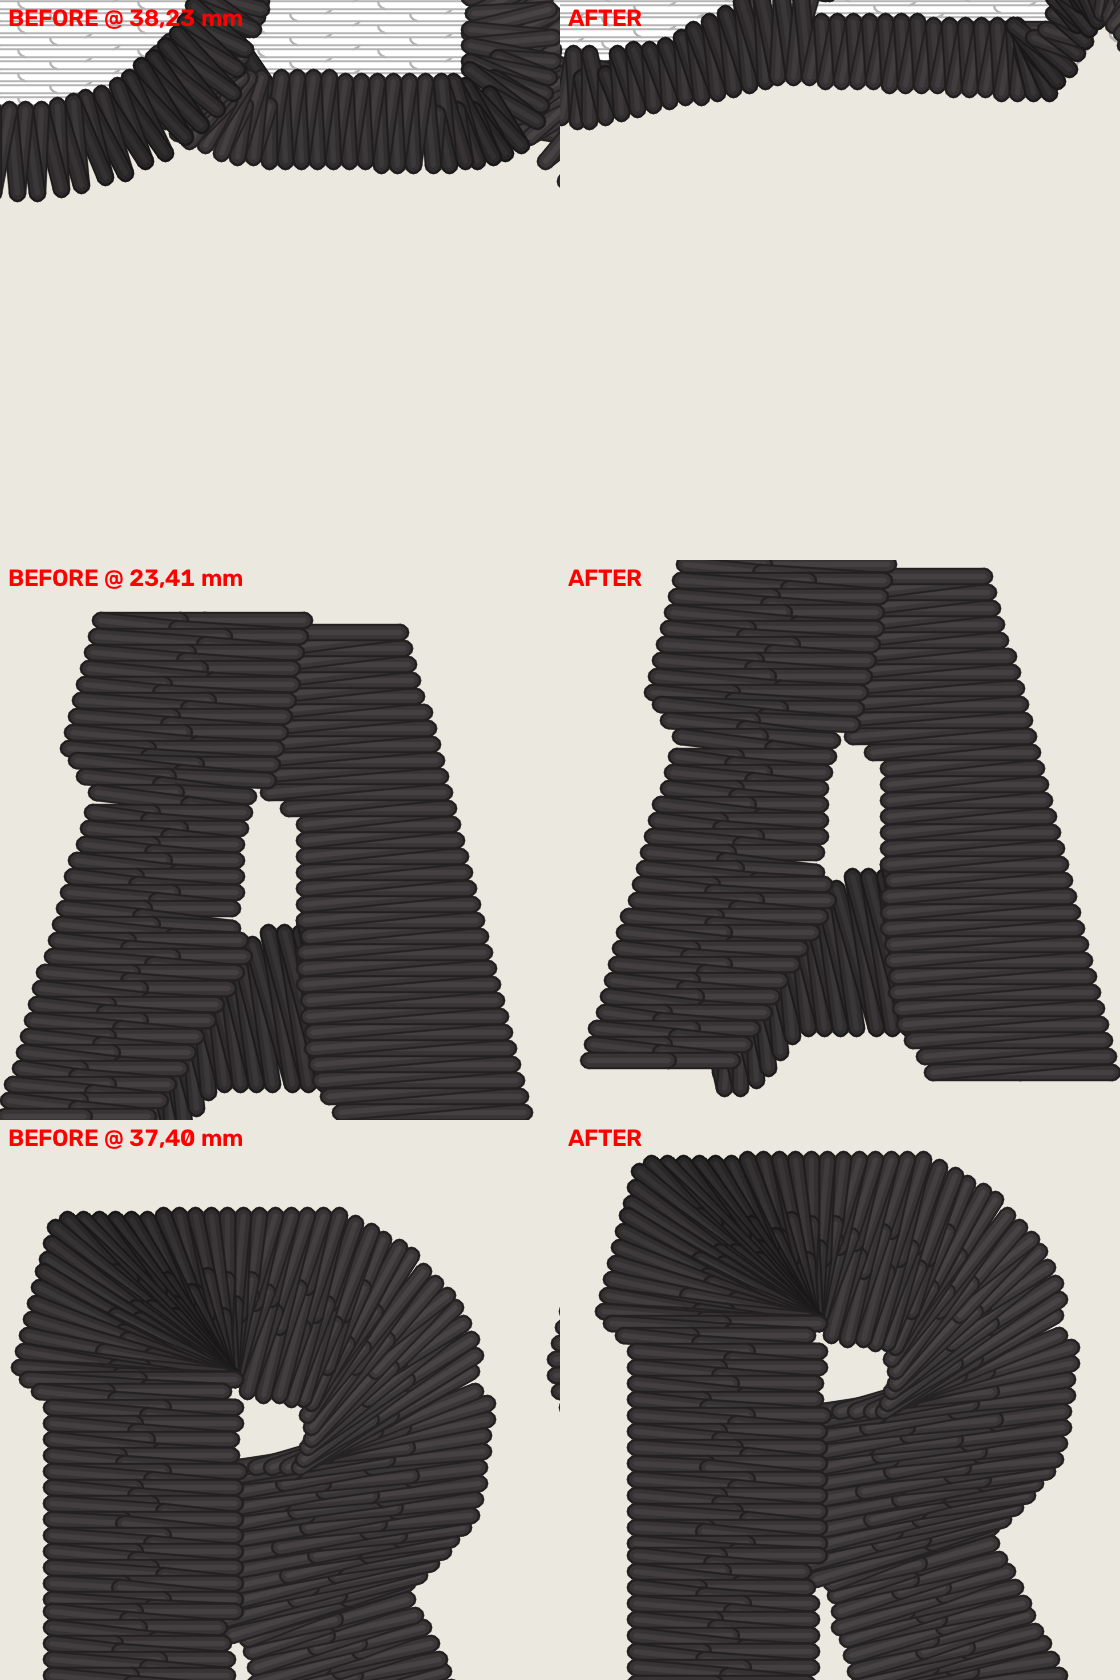
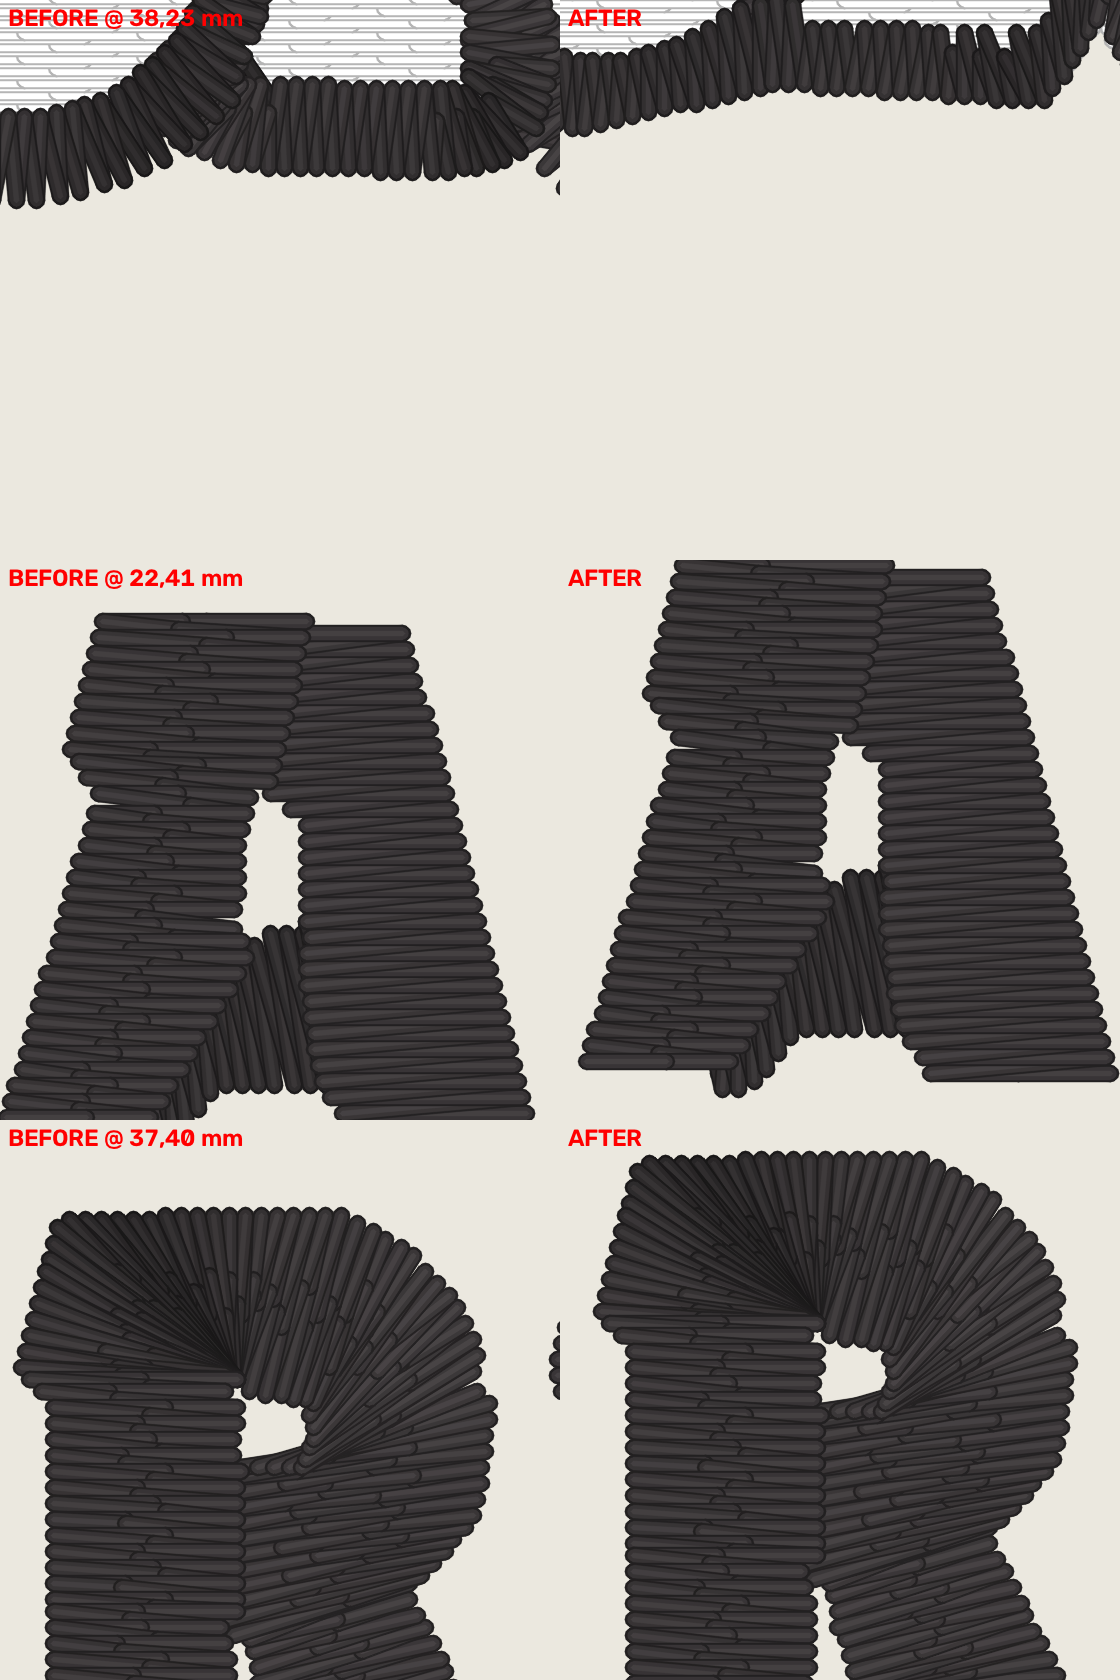
outline_one_band round 2 (OFF): no thread across a face, V crosses square; whole word not clearly better, MFab 30 mm guard named (#1665)
* outline_one_band round 2: no thread across a face, stems edge to edge, V crosses kept square; 44-run sweep; MFab 30 mm guard named

Claude-Session: https://claude.ai/code/session_01SfRndNWG1h2hnYMnZLY5DV

* outline_one_band: the flag's comment says plainly it is not a flip candidate as built (director 2026-11-18)

Claude-Session: https://claude.ai/code/session_01SfRndNWG1h2hnYMnZLY5DV

* outline_one_band: the flag's comment names the one untried structural option

Claude-Session: https://claude.ai/code/session_01SfRndNWG1h2hnYMnZLY5DV

---------

diff --git a/digitizer/digitizer_core/outline_band.py b/digitizer/digitizer_core/outline_band.py
@@ -123,7 +123,7 @@ def stem_pieces(art: Polygon, rings: list[tuple[Polygon, float]]) -> tuple[list[
                 shared.append(g)
     if not shared:
         return [], outer, w
-    s = unary_union(shared).intersection(art).difference(outer)
+    s = unary_union(shared).buffer(0.3).intersection(art).difference(outer)
     # the opening drops the slivers where two hole buffers just touch
     s = s.buffer(-0.05).buffer(0.05)
     stems = []
@@ -176,6 +176,29 @@ def _keep_out_of_faces(runs: list, faces, outer_line: LineString) -> int:
             n += 1
         r.points = pts
     return n
+
+
+def _scrub_face_travel(runs: list, faces, trim_at_mm: float) -> tuple[list, int]:
+    """No thread crosses a white face: a travel run that runs through a face for more than a
+    third of a millimetre is not sewn, the needle lifts instead (cut past `trim_at_mm`)."""
+    out, lifts, last, pending = [], 0, None, False
+    for r in runs:
+        if not r.points:
+            out.append(r)
+            continue
+        if r.kind == stitches.TRAVEL and len(r.points) > 1 and LineString(r.points).intersection(faces).length > 0.33:
+            pending = True
+            continue
+        if pending and r.kind != stitches.TRAVEL and last is not None:
+            d = math.dist(last, r.points[0])
+            if d >= machine.TINY_STITCH_MM:
+                r.jump = True
+                r.trim = d > trim_at_mm
+                lifts += 1
+            pending = False
+        out.append(r)
+        last = r.points[-1]
+    return out, lifts
 
 
 def _outer_centre(art: Polygon, w: float) -> LineString | None:
@@ -233,6 +256,12 @@ def _centre_walk(band: Polygon, centre: LineString | None, a, b):
         out.extend(_densify(cur, pt, machine.TRAVEL_STITCH_MM))
         cur = pt
     return out
+
+
+#: the outer loop's cross direction is read over this many times the usual stretch of its ring, so
+#: through a notch (the V between two letters) the crosses keep the band's own direction instead of
+#: turning with each facet (the pro's stay 79-93 deg across the V)
+TANGENT_SCALE = 3.0
 
 
 def _hop(runs: list, new: list, cursor, band: Polygon, shape_id: str, trim_at_mm: float,
@@ -377,7 +406,7 @@ def one_band_runs(art: Polygon, rings: list[tuple[Polygon, float]], shape_id: st
     seed = _loops_exit(rings, entry) or cursor
     o_runs, o_rep = keyline_runs(art, shape_id, reach=art.difference(stem_union), entry=seed,
                                  trim_at_mm=trim_at_mm, underlay=underlay,
-                                 holes=[(ext, w)], bridge_guides=guides)
+                                 holes=[(ext, w)], bridge_guides=guides, tangent_scale=TANGENT_SCALE)
     if o_rep["empty"]:
         return [], report
     _keep_out_of_faces(o_runs, unary_union([h for h, _w in rings]).buffer(-0.0005),
@@ -387,5 +416,7 @@ def one_band_runs(art: Polygon, rings: list[tuple[Polygon, float]], shape_id: st
     runs += o_runs
     report["jumps"] += o_rep["jumps"]
     report["outline_loops"] += o_rep["loops"]
+    runs, lifts = _scrub_face_travel(runs, unary_union([h for h, _w in rings]).buffer(-0.1), trim_at_mm)
+    report["jumps"] += lifts
     report["empty"] = False
     return runs, report

diff --git a/digitizer/digitizer_core/config.py b/digitizer/digitizer_core/config.py
@@ -3624,15 +3624,24 @@ class PipelineConfig:
     # (`docs/renders/outline-loop-split-shared-2026-11-18/`). Off,
     # byte-identical. Tests: `tests/test_outline_loop_split_shared.py`.
     outline_loop_split_shared: bool = False
-    # `outline_one_band` (2026-11-18, prime grader / Kent 11-10 "the border
-    # around this logo should be smooth"): an outline whose band is shared by
-    # two or more bodies and has stems between them (BECKER) is sewn the way
-    # the professional's Becker file is -- each stem a satin column of its own
-    # first, then ONE loop on the band's outer ring last, so the border passes
-    # the dip between two letters as one band (`outline_band`). Single-body
-    # bands and bands without a stem are untouched. Built OFF: the flip is
-    # Kent's, judged on the before / after pictures
-    # (`docs/renders/outline-one-band-2026-11-18/`). Off, byte-identical.
+    # `outline_one_band` (2026-11-18, prime grader / Kent 11-10 "the border around this logo
+    # should be smooth"): an outline whose band is shared by two or more bodies and has stems
+    # between them (BECKER) is sewn the way the professional's Becker file is -- each stem a
+    # satin column of its own first, then ONE loop on the band's outer ring last (`outline_band`).
+    # **NOT A FLIP CANDIDATE AS BUILT** (director 2026-11-18, after the all-placements sweep of
+    # the 18 tripwire jobs + 26 fixtures): 6 of 44 move. The three small Becker placements get
+    # worse (a bare sliver across the K, +6 to +8 trims), Becker large gains +183 mm of needle-up
+    # (round 1; +217 mm round 2), becker_lc_large +361 mm, and `mfab_lc` MOVED in round 1
+    # (+897 stitches, +4 trims) although the gate was meant to exclude MFab, so the gate itself
+    # (two or more bodies and a stem) is wrong there; MFab hat at 30 mm drops a grade B -> C with
+    # it ON (`test_underfill_small_size`). What is worth keeping is the MEASURED CONSTRUCTION: one
+    # fill under the group, one border band over the V, a column per stem, stem first
+    # (`docs/outline-one-band-2026-11-18.md`). The one UNTRIED structural option: sew each face's loop
+    # whole, as OFF does, and lay the stems and the outer loop OVER it instead of cutting it (it
+    # brings the double cover at the stems back; not built). Off, byte-identical on all 35 pro/fixture
+    # runs.
+    # Tests: `tests/test_outline_one_band.py`. Evidence:
+    # `docs/renders/outline-one-band-2026-11-18/README.md`.
     outline_one_band: bool = False
     # `satin_hairline_tier` (2026-10-08, MASTER_SCOPE defect 24 -- the tier
     # the 2026-09-03 mechanism left open). A stroke that loses crosses to

diff --git a/digitizer/digitizer_core/stage6_border.py b/digitizer/digitizer_core/stage6_border.py
@@ -1270,7 +1270,8 @@ def keyline_runs(band, shape_id: str, *, reach, entry: tuple[float, float] | Non
                  trim_at_mm: float, width_mm: float | None = None,
                  density_mm: float | None = None,
                  underlay: bool = False, holes=None,
-                 split_shared: bool = False, bridge_guides=None) -> tuple[list[StitchRun], dict]:
+                 split_shared: bool = False, bridge_guides=None,
+                 bridge_ok=None, tangent_scale: float = 1.0) -> tuple[list[StitchRun], dict]:
     """A keyline band as one satin loop round each of its holes. -> (runs,
     report).
 
@@ -1340,7 +1341,7 @@ def keyline_runs(band, shape_id: str, *, reach, entry: tuple[float, float] | Non
             ring_pts, total = _ring_arc_samples(coords, n)
         if not ring_pts:
             continue
-        k_tan = max(1, int(round(half / step)))
+        k_tan = max(1, int(round(half / step * tangent_scale)))
         start_at = cursor
         if chain and rings:
             # `cfg.keyline_loop_chain` (built OFF): the loop starts where it
@@ -1379,6 +1380,8 @@ def keyline_runs(band, shape_id: str, *, reach, entry: tuple[float, float] | Non
         elif cursor is not None:
             to = walk[0] if walk else pts[0]
             bridge = travel_path(band, bridge_guides, cursor, to)
+            if bridge is not None and bridge_ok is not None and not bridge_ok(bridge):
+                bridge = None
             if bridge is None:
                 d = math.dist(cursor, to)
                 if d >= machine.TINY_STITCH_MM:

diff --git a/docs/renders/outline-one-band-2026-11-18/README.md b/docs/renders/outline-one-band-2026-11-18/README.md
@@ -48,52 +48,57 @@ E/R join is the same. **Worse:**
 * At the V the outer loop's crosses still turn with the band's normal (they bunch in the
   notch); the pro's stay near-square to the band. Closer than before, not the pro's.
 
-## ALL 18 tripwire jobs (every placement) + the 26 fixtures, OFF vs ON (director 11-18, final build)
+## ALL 18 tripwire jobs (every placement) + the 26 fixtures, OFF vs ON (round 2, 2026-11-18)
 
-44 runs by stitch md5: **6 moved, 38 byte-identical.** The 35-run table above missed four
-(second placements of the same artwork). Needle-up = the straight gap the needle flies at each
-lift (`pro_baseline.needle_up`'s rule, from the design's stitch list).
+44 runs by stitch md5: **6 moved, 38 byte-identical** (OFF = `origin/main`'s output; round 2 changes the ON arm only).
+Needle-up = the straight gap the needle flies at each lift (`pro_baseline.needle_up`'s rule, from the stitch list).
 
 | run | stitches | trims | jumps | needle-up mm |
 |---|---|---|---|---|
-| becker_hat_large | 16,246 -> 16,246 | 19 -> 20 | 20 -> 21 | 489.6 -> **672.5** |
-| becker_hat_small | 10,319 -> 9,851 | 10 -> **18** | 14 -> 23 | 306.3 -> 319.0 |
-| becker_chest_small | 10,156 -> 9,698 | 9 -> **16** | 13 -> 21 | 303.5 -> 292.5 |
-| becker_beanie | 13,653 -> 13,330 | 13 -> **19** | 15 -> 21 | 385.0 -> 375.0 |
-| mfab_lc | 17,570 -> **18,467** | 19 -> 23 | 29 -> 33 | 504.9 -> 586.6 |
-| fx_becker_marine_logo (80 mm) | 10,826 -> 10,459 | 13 -> 19 | 14 -> 20 | 380.4 -> 362.9 |
+| becker_hat_large | 16,246 -> 16,154 | 19 -> 23 | 20 -> 24 | 489.6 -> 706.8 |
+| becker_lc_large | 14,802 -> 14,432 | 13 -> 24 | 14 -> 25 | 213.8 -> **574.8** |
+| becker_hat_small | 10,319 -> 9,766 | 10 -> 21 | 14 -> 25 | 306.3 -> 357.9 |
+| becker_chest_small | 10,156 -> 9,627 | 9 -> 18 | 13 -> 22 | 303.5 -> 291.4 |
+| becker_beanie | 13,653 -> 13,121 | 13 -> 22 | 15 -> 24 | 385.0 -> 391.4 |
+| fx_becker_marine_logo (80 mm) | 10,826 -> 10,282 | 13 -> 21 | 14 -> 22 | 380.4 -> 364.9 |
 
-(becker_lc_large and the other 38 do not move.) All six pictured: `<run>.png`, `<run>_closeup.png`.
+mfab_lc, which moved in round 1, does not move now (its stem test no longer passes at that placement). Pictures:
+`<run>.png`, `<run>_closeup.png` for the six.
 
-**By eye, worse first:**
-* **becker_hat_small**: ON draws a white (bare) curved sliver across the top of the K where the
-  stem top meets the band (overview, AFTER, K top), and the band edge is rougher; trims 10 -> 18.
-* becker_chest_small, becker_beanie: same family as the small hat (trims +7 / +6).
-* becker_hat_large: needle-up travel +183 mm (more lifts between far pieces), trims +1.
-* **mfab_lc**: +897 stitches (+5%), +4 trims, +82 mm needle-up; no visible change at print size
-  (the white keyline reads the same). The gate was met by the LC placement's letters and stems.
-* The 102 mm and 80 mm Becker pictures above stand: one stem column, one continuous band.
+### What round 2 changed (director's list, 11-18 06:33)
+1. **Stray line.** The diagonal line near the K/E/R lower area was a TRAVEL run of 25 mm that ran through the
+   E's white face (the walk along the band's inset ring cut across a face corner); a travel that runs more than a
+   third of a millimetre through a face is no longer sewn, the needle lifts (`_scrub_face_travel`). No thread now
+   crosses a white face in the Becker large render.
+2. **Stems edge to edge.** A stem is grown 0.3 mm so it reaches both faces; the C/K and K/E stems are NOT thinner
+   than the art: the art's band between those letters is 0.55-1.1 mm (measured, `faces 2-3 min gap 0.55`), a satin
+   column of that width reads as a hairline in both arms; OFF's two overlapping loops make it look heavier.
+3. **The V.** The outer loop's cross direction is read over three times the stretch (`TANGENT_SCALE`), so the
+   crosses stay near-square to the band through the notch instead of fanning; the stem butts the band's lower edge.
+4. **E/R flare** and a wider outer reach (3.6 mm, to absorb the face-edge strips) were tried and dropped: both
+   broke the stems into pieces (visible gaps) and raised trims.
+5. **Trims (target +2 at 80 mm): NOT met** (80 mm: 14 -> 22). The cost is structural: the stems and the outer loop
+   cut each face's loop into 20-30 arcs, and each far arc is a lift. Filling those wedges instead was tried and
+   made it worse (27 trims).
 
-**Conclusion of this sweep: not ready to flip.** The small placements (76-80 mm) gain trims and one
-visible bare sliver; the grader's design (102 mm) gains the clean stem at +183 mm of needle-up.
+### Whole-word read at print size, ON vs OFF (Becker 102 mm, 76 mm)
+102 mm: the outer contour is one smooth band (OFF scallops where each letter's loop ends), stems and the V are
+cleaner; the stems between C/K and K/E read as thin as the art's hairline gaps. 76 mm: a rougher band edge and a
+small white notch at the top of the K remain. **Not clearly better than OFF across the placements, and it
+costs 4-11 trims and up to +361 mm of needle-up: leave OFF as built.**
 
-## Related tests with the flag forced ON (227 files, final build)
+## Related tests with the flag forced ON (227 files, round 2)
 
-3,985 passed, 4 failed. With the flag OFF (the default) all pass. The 4:
-* `test_flat_lane_byte_identical[enthusiast_logo]`: the known golden red (CI deselects it).
-* `test_outline_one_band::test_field_defaults_off`: the default forced for the run.
-* `test_silhouette_underfill_panels` (2): md5 pins of Becker / MFab stitch bytes (a flip
-  would re-pin them).
-Two guard figures moved the wrong way in earlier builds and are now back:
-* `test_wide_columns` fold-guard test: `coverage_max` on Becker 114 mm was 6.14 OFF, 6.71 ON
-  (warn line 6.667): the outline's exit point had re-ordered MARINE's letters. The band now
-  ends where the loops it replaces would have ended: the order is the same, **6.14 OFF, 6.39
-  ON**, no cell over the line (`outline_band._loops_exit`).
-* `test_border_from_outline` thin-ring test: an outer-loop cross grazed a face corner; the far
-  end is now pulled back to the face's edge (`_keep_out_of_faces`, own test).
-* `test_run_spans` design-cap test: with the flag ON the cap has no satin-arc (BORDER-kind)
-  stitch, the outer loop sews that edge; the test asserts the emitter only with the flag OFF
-  (its role assertion holds either way); bare area is not worse (below).
+With the flag OFF (default) all pass. ON: 1 NEW guard failure, plus the known ones.
+* **NEW: `test_underfill_small_size::test_mfab_hat_size_sweep_order_and_grade[30.0-default]`: MFab hat at 30 mm
+  (default class) grade B -> C (floor B).** The flag moves MFab at 30 mm, a size the tripwire jobs do not cover:
+  stitches 2,989 -> 2,573, trims 12 -> 17, `satin_short_fraction` 0.263 -> 0.444, raw score 76 -> 64. So
+  "MFab is untouched" holds at its tripwire size (105 mm) and not at 30 mm.
+* Known/expected: the enthusiast golden, `test_field_defaults_off` (the forced default), and the two
+  `test_silhouette_underfill_panels` md5 pins.
+* Passing ON now (they failed in earlier builds): `test_wide_columns` fold guard (coverage_max 6.14 OFF,
+  6.39 ON), `test_border_from_outline` thin-ring test, `test_run_spans` (asserts the satin-arc emitter only
+  with the flag OFF).
 
 **The design cap with the flag ON** (director item 3): bare area is not worse, it
 falls. Becker at 80 mm in that test's config: uncovered area 10.5 -> 3.1 mm2, worst patch
